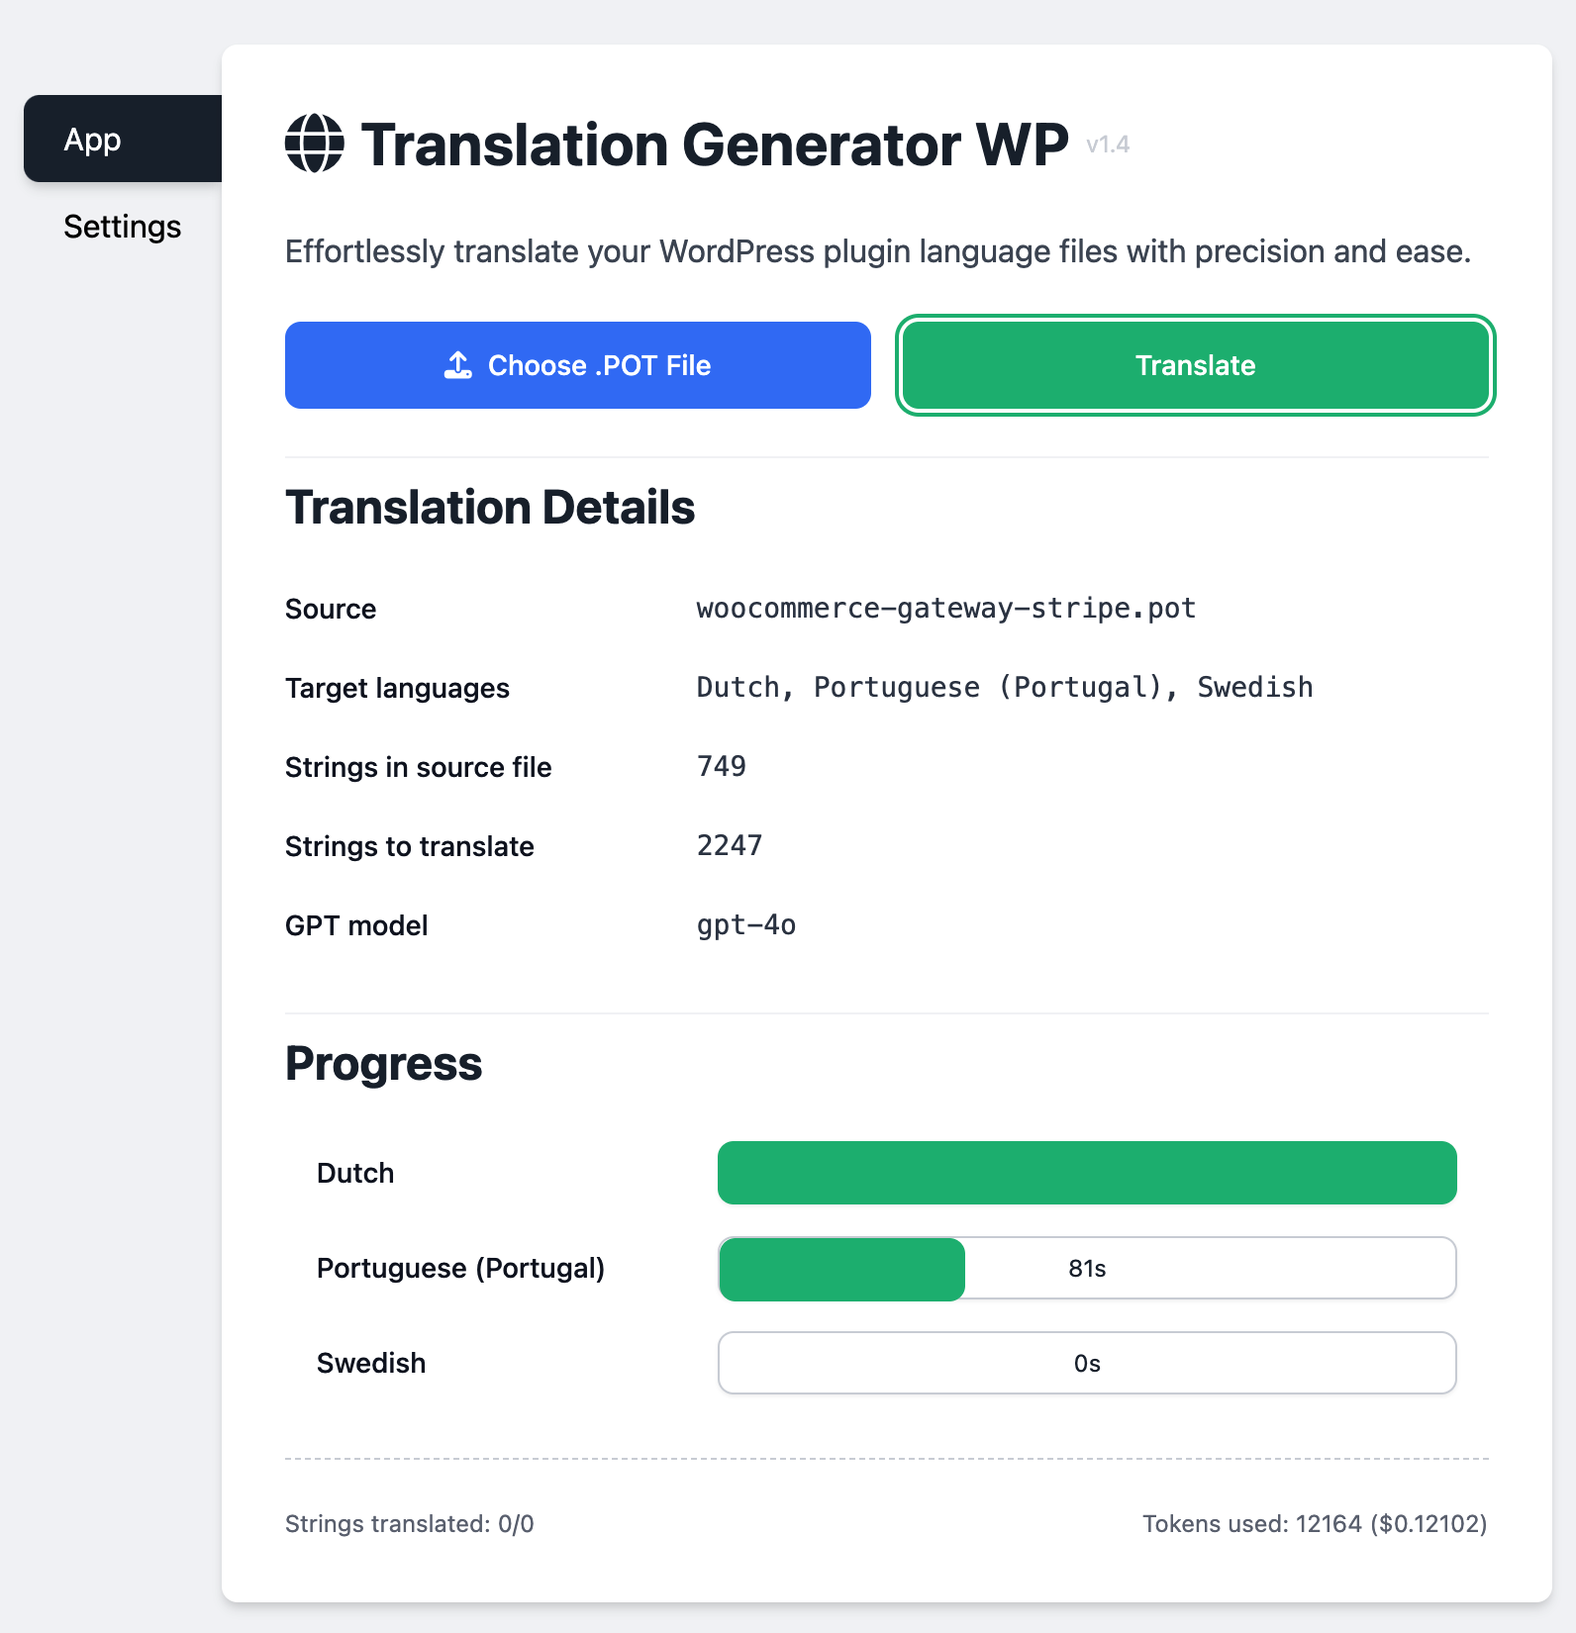
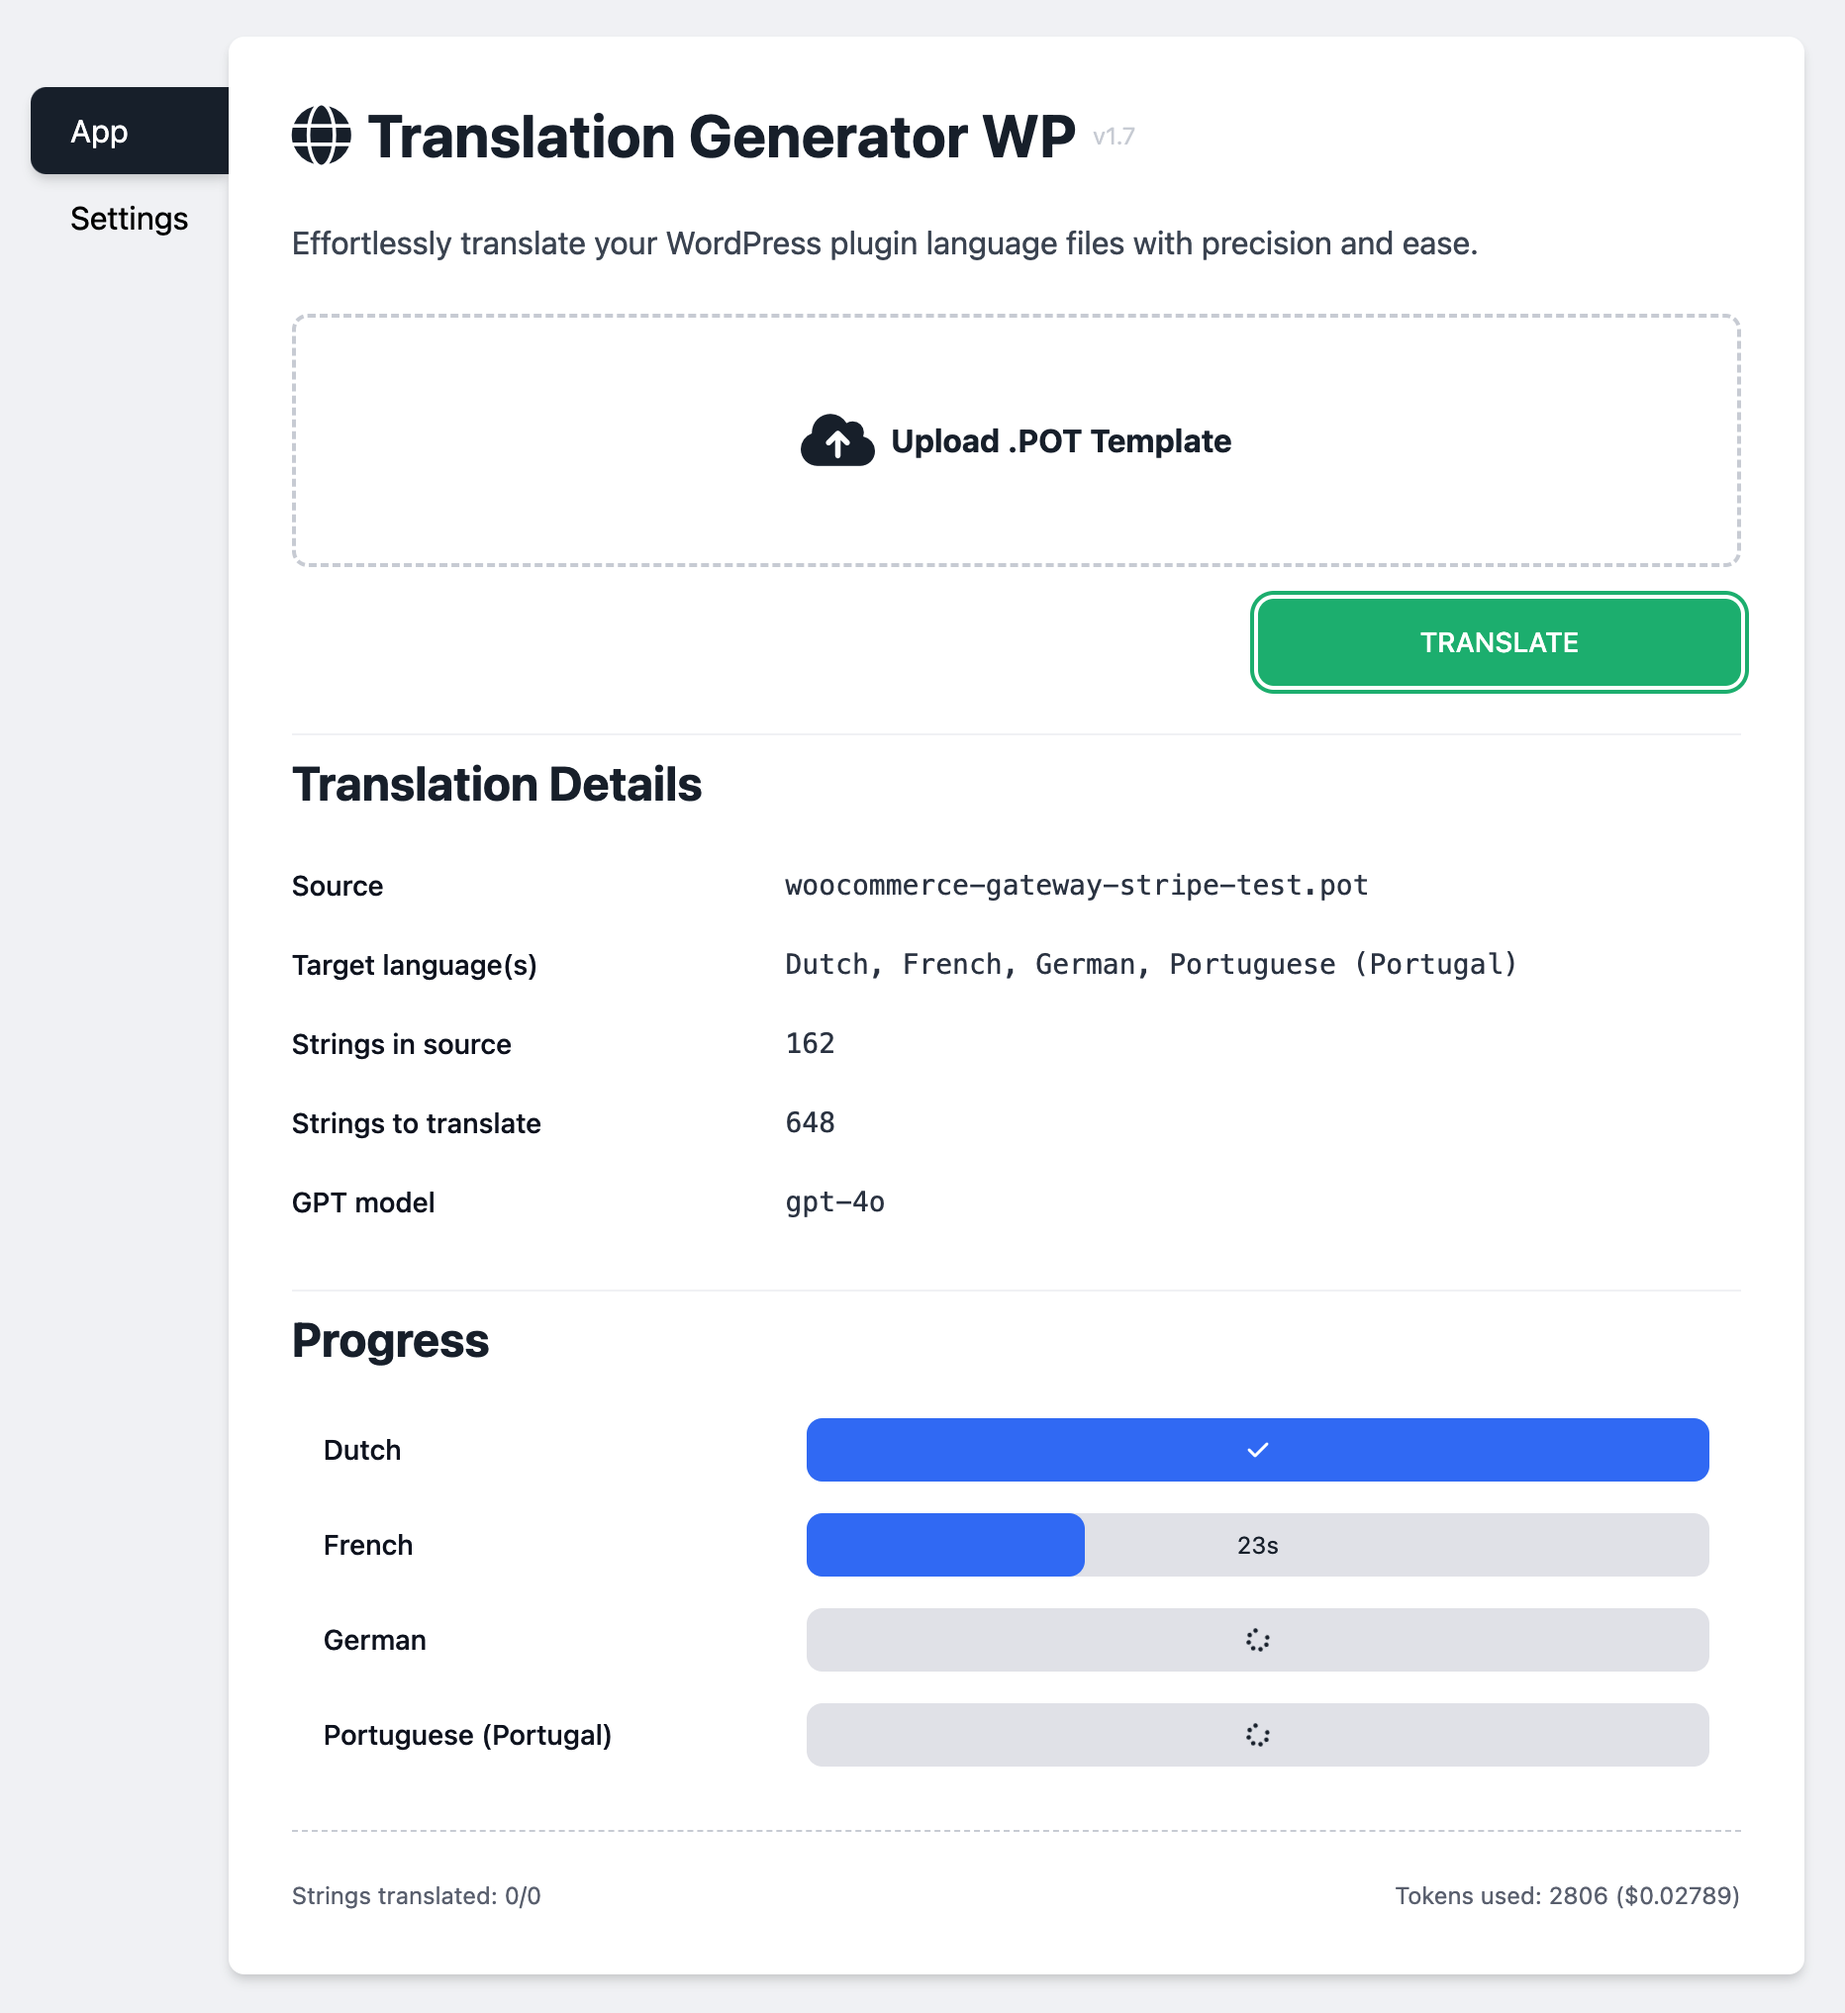
Add drag & drop upload

diff --git a/public/assets/js/fileProcessor.js b/public/assets/js/fileProcessor.js
@@ -1,12 +1,14 @@
 import { processContent } from './translator.js';
 import { saveTranslatedFile, calculateStringsInFile, resetProgressAndTokens, resetExcludedTerms, addPluginNameToExclusions, showNotification } from './utils.js';
 
+let uploadedFile = null;
+
 export function initializeFileUpload() {
     const uploadInput = document.getElementById('fileUpload');
     const fileNameDisplay = document.getElementById('fileNameDisplay');
     const fileInfoContainer = document.getElementById('fileInfoContainer');
     const translateButton = document.getElementById('translateBtn');
-    const translateNotificationContainer = document.getElementById('translate-notification-container'); // New notification container
+    const translateNotificationContainer = document.getElementById('translate-notification-container');
     const languagesDisplay = document.getElementById('languagesDisplay');
     const stringsFound = document.getElementById('stringsFound');
     const stringsToTranslate = document.getElementById('stringsToTranslate');
@@ -18,31 +20,7 @@ export function initializeFileUpload() {
 
     uploadInput.addEventListener('change', function(event) {
         const file = event.target.files[0];
-        if (file && file.name.endsWith('.pot')) {
-            resetUI(); // Reset UI before processing the new file
-            translateButton.disabled = false;
-            originalFileName = file.name.replace('.pot', '');
-            fileNameDisplay.textContent = file.name;
-
-            updateTranslationDetails();
-
-            // Calculate strings found in file
-            calculateStringsInFile(file, function(total) {
-                totalStrings = total;
-                stringsFound.textContent = totalStrings;
-                stringsToTranslate.textContent = totalStrings * Array.from(document.getElementById('languageSelect').selectedOptions).length;
-            });
-
-            fileInfoContainer.classList.remove('hidden');
-            resetProgressAndTokens();
-            resetExcludedTerms();
-            addPluginNameToExclusions(originalFileName);
-        } else {
-            showNotification('Please upload a .POT file.', 'red', translateNotificationContainer);
-            translateButton.disabled = true;
-            fileNameDisplay.textContent = '';
-            fileInfoContainer.classList.add('hidden');
-        }
+        handleFile(file);
     });
 
     function resetUI() {
@@ -56,7 +34,6 @@ export function initializeFileUpload() {
     }
 
     function updateTranslationDetails() {
-        // Get selected languages and GPT model
         const selectedLanguages = Array.from(document.getElementById('languageSelect').selectedOptions).map(option => option.text);
         const gptModel = document.getElementById('modelSelect').value;
 
@@ -65,7 +42,6 @@ export function initializeFileUpload() {
         stringsToTranslate.textContent = totalStrings * selectedLanguages.length;
     }
 
-    // Event listener for settings change
     document.getElementById('saveBtn').addEventListener('click', updateTranslationDetails);
 }
 
@@ -73,18 +49,14 @@ export function initializeTranslateButton() {
     const translateButton = document.getElementById('translateBtn');
     translateButton.addEventListener('click', function() {
         const progressBarsContainer = document.getElementById('progressBarsContainer');
-        const languageSelect = document.getElementById('languageSelect'); // Get the selected languages
+        const languageSelect = document.getElementById('languageSelect');
 
-        // Clear progress bars container
         progressBarsContainer.innerHTML = '<div class="mt-6 border-t border-gray-100 pt-2"><h2 class="text-2xl font-bold text-gray-800">Progress</h2><table class="w-full mt-4"><tbody></tbody></table></div>';
         progressBarsContainer.classList.remove('hidden');
 
         const tableBody = progressBarsContainer.querySelector('tbody');
-
-        // Get the selected languages
         const selectedLanguages = Array.from(languageSelect.selectedOptions).map(option => ({ code: option.value, name: option.text }));
 
-        // Display all selected languages with an initial progress bar
         selectedLanguages.forEach(language => {
             const progressBarId = `progressBar-${language.code}`;
             const progressTimeId = `progressTime-${language.code}`;
@@ -93,8 +65,10 @@ export function initializeTranslateButton() {
                 <td class="px-4 py-2 text-gray-900 text-sm font-medium leading-6 w-1/3">${language.name}</td>
                 <td class="px-4 py-2 w-full">
                     <div class="w-full bg-gray-200 rounded-lg h-8 relative">
-                        <div id="${progressBarId}" class="bg-green-500 h-8 rounded-lg" style="width: 0%"></div>
-                        <div id="${progressTimeId}" class="absolute inset-0 flex items-center justify-center text-xs text-gray-800">0s</div>
+                        <div id="${progressBarId}" class="bg-blue-500 h-8 rounded-lg" style="width: 0%"></div>
+                        <div id="${progressTimeId}" class="absolute inset-0 flex items-center justify-center text-xs text-gray-800">
+                            <i class="fas fa-spinner fa-spin text-gray-800"></i>
+                        </div>
                     </div>
                 </td>
             `;
@@ -106,31 +80,44 @@ export function initializeTranslateButton() {
 }
 
 function startTranslation(selectedLanguages) {
-    const uploadInput = document.getElementById('fileUpload');
+    if (!uploadedFile) {
+        showNotification('No file uploaded. Please upload a .POT file.', 'red', 'translate-notification-container');
+        return;
+    }
+
+    if (!Array.isArray(selectedLanguages)) {
+        showNotification('No languages selected for translation.', 'red', 'translate-notification-container');
+        return;
+    }
+
     const excludedTermsInput = document.getElementById('excludedTerms');
     const reader = new FileReader();
-    const file = uploadInput.files[0];
 
     reader.onload = async function(e) {
         const content = e.target.result;
         const excludedTerms = excludedTermsInput.value.split(',').map(term => term.trim());
         const startTime = new Date();
-        const originalFileName = file.name.replace('.pot', '');
+        const originalFileName = uploadedFile.name.replace('.pot', '');
 
-        // Get batch size from global settings
         const batchSize = parseInt(window.settings.batchSize, 10) || 10;
 
         for (const language of selectedLanguages) {
             const progressBarId = `progressBar-${language.code}`;
             const progressTimeId = `progressTime-${language.code}`;
+
+            // Remove the spinner when translation starts
+            document.getElementById(progressTimeId).innerHTML = '0s';
+
             const { translatedContent } = await processContent(content, excludedTerms, originalFileName, startTime, language.code, batchSize, progressBarId);
             saveTranslatedFile(translatedContent, originalFileName, language.code);
 
-            document.getElementById(progressTimeId).style.display = 'none';
+            // Show checkmark on completion
+            document.getElementById(progressBarId).style.width = '100%';
+            document.getElementById(progressTimeId).innerHTML = '<i class="fas fa-check text-white"></i>';
         }
     };
 
-    reader.readAsText(file);
+    reader.readAsText(uploadedFile);
 }
 
 export function initializeLanguageSelect() {
@@ -149,4 +136,99 @@ export function initializeLanguageSelect() {
         searchResultLimit: 4,
         searchFields: ['label', 'value'],
     });
+}
+
+export function initializeDragAndDrop() {
+    const dropZone = document.getElementById('dropZone');
+    const fileUploadInput = document.getElementById('fileUpload');
+
+    dropZone.addEventListener('click', () => {
+        fileUploadInput.click();
+    });
+
+    dropZone.addEventListener('dragover', (event) => {
+        event.preventDefault();
+        dropZone.classList.add('bg-gray-100');
+    });
+
+    dropZone.addEventListener('dragleave', () => {
+        dropZone.classList.remove('bg-gray-100');
+    });
+
+    dropZone.addEventListener('drop', (event) => {
+        event.preventDefault();
+        dropZone.classList.remove('bg-gray-100');
+
+        if (event.dataTransfer.files.length > 0) {
+            const file = event.dataTransfer.files[0];
+            handleFile(file);
+        }
+    });
+
+    fileUploadInput.addEventListener('change', (event) => {
+        const file = event.target.files[0];
+        handleFile(file);
+    });
+}
+
+function handleFile(file) {
+    const translateButton = document.getElementById('translateBtn');
+    const fileNameDisplay = document.getElementById('fileNameDisplay');
+    const fileInfoContainer = document.getElementById('fileInfoContainer');
+    const translateNotificationContainer = document.getElementById('translate-notification-container');
+    const languagesDisplay = document.getElementById('languagesDisplay');
+    const stringsFound = document.getElementById('stringsFound');
+    const stringsToTranslate = document.getElementById('stringsToTranslate');
+    const gptModelDisplay = document.getElementById('gptModelDisplay');
+    const progressBarsContainer = document.getElementById('progressBarsContainer');
+
+    let originalFileName = '';
+    let totalStrings = 0;
+
+    if (file && file.name.endsWith('.pot')) {
+        resetUI();
+        translateButton.disabled = false;
+        originalFileName = file.name.replace('.pot', '');
+        fileNameDisplay.textContent = file.name;
+        uploadedFile = file;
+
+        updateTranslationDetails();
+
+        calculateStringsInFile(file, function(total) {
+            totalStrings = total;
+            stringsFound.textContent = totalStrings;
+            stringsToTranslate.textContent = totalStrings * Array.from(document.getElementById('languageSelect').selectedOptions).length;
+        });
+
+        fileInfoContainer.classList.remove('hidden');
+        resetProgressAndTokens();
+        resetExcludedTerms();
+        addPluginNameToExclusions(originalFileName);
+    } else {
+        showNotification('Please upload a .POT file.', 'red', translateNotificationContainer);
+        translateButton.disabled = true;
+        fileNameDisplay.textContent = '';
+        fileInfoContainer.classList.add('hidden');
+    }
+
+    function resetUI() {
+        fileNameDisplay.textContent = '';
+        languagesDisplay.textContent = '';
+        stringsFound.textContent = '';
+        stringsToTranslate.textContent = '';
+        gptModelDisplay.textContent = '';
+        progressBarsContainer.innerHTML = '';
+        fileInfoContainer.classList.add('hidden');
+    }
+
+    function updateTranslationDetails() {
+        const selectedLanguages = Array.from(document.getElementById('languageSelect').selectedOptions).map(option => option.text);
+        const gptModel = document.getElementById('modelSelect').value;
+
+        languagesDisplay.textContent = selectedLanguages.join(', ');
+        gptModelDisplay.textContent = gptModel;
+        stringsToTranslate.textContent = totalStrings * selectedLanguages.length;
+    }
+
+    document.getElementById('saveBtn').addEventListener('click', updateTranslationDetails);
 }

diff --git a/public/index.html b/public/index.html
@@ -47,17 +47,20 @@
                         <!-- Show fa-globe icon and hide heading in responsive mode -->
                         <i class="fa-solid fa-globe" aria-hidden="true"></i>
                         <span class="hidden md:block">Translation Generator WP</span>
-                        <span class="text-right text-gray-300 text-xs font-normal hidden md:inline">v1.6</span>
+                        <span class="text-right text-gray-300 text-xs font-normal hidden md:inline">v1.7</span>
                     </h1>
                     <p class="text-gray-600 hidden md:block">Effortlessly translate your WordPress plugin language files with precision and ease.</p>
                     <!-- Notification Container -->
                     <div id="translate-notification-container" class="mb-4"></div>
-                    <div class="flex flex-col sm:flex-row items-center space-y-4 sm:space-y-0 sm:space-x-4">
-                        <label for="fileUpload" class="flex-1 flex items-center justify-center px-4 py-3 text-sm font-medium text-white bg-blue-500 rounded-lg cursor-pointer hover:bg-blue-700 focus:outline-none focus:ring-2 focus:ring-offset-2 focus:ring-blue-500">
-                            <i class="fas fa-upload mr-2" aria-hidden="true"></i> Choose .POT File
-                        </label>
+                    <div class="flex flex-col items-center space-y-4">
+                        <div id="dropZone" class="w-full h-32 border-2 border-dashed border-gray-300 rounded-lg flex items-center justify-center cursor-pointer hover:bg-gray-50">
+                            <i class="fa-solid fa-cloud-arrow-up text-3xl text-gray-800 mr-2"></i>
+                            <p class="text-gray-800 font-bold">Upload .POT Template</p>
+                        </div>
                         <input type="file" id="fileUpload" class="hidden" aria-describedby="fileUploadDesc">
-                        <button id="translateBtn" disabled class="flex-1 px-4 py-3 text-sm font-medium text-white bg-green-500 rounded-lg hover:bg-green-700 focus:outline-none focus:ring-2 focus:ring-offset-2 focus:ring-green-500 disabled:bg-gray-300">Translate</button>
+                        <div class="w-full flex justify-end">
+                            <button id="translateBtn" disabled class="w-1/3 px-4 py-3 text-sm font-medium text-white bg-green-500 rounded-lg hover:bg-green-700 focus:outline-none focus:ring-2 focus:ring-offset-2 focus:ring-green-500 disabled:bg-gray-300 uppercase">Translate</button>
+                        </div>
                     </div>
                     <span id="fileUploadDesc" class="sr-only">Upload a .POT file for translation</span>
                     <div id="fileInfoContainer" class="mt-6 border-t border-gray-100 pt-2 hidden">

diff --git a/public/assets/js/main.js b/public/assets/js/main.js
@@ -1,4 +1,4 @@
-import { initializeFileUpload, initializeTranslateButton, initializeLanguageSelect } from './fileProcessor.js';
+import { initializeFileUpload, initializeTranslateButton, initializeLanguageSelect, initializeDragAndDrop } from './fileProcessor.js';
 import { saveSettings, loadSettings, setTabListeners } from './settings.js';
 
 let choicesInstance;
@@ -33,6 +33,9 @@ document.addEventListener('DOMContentLoaded', function() {
 
     // Set up event listeners for tab navigation
     setTabListeners();
+
+    // Initialize drag and drop functionality
+    initializeDragAndDrop();
 
     // Extract language mapping from the select options
     function getLanguageMapping() {
